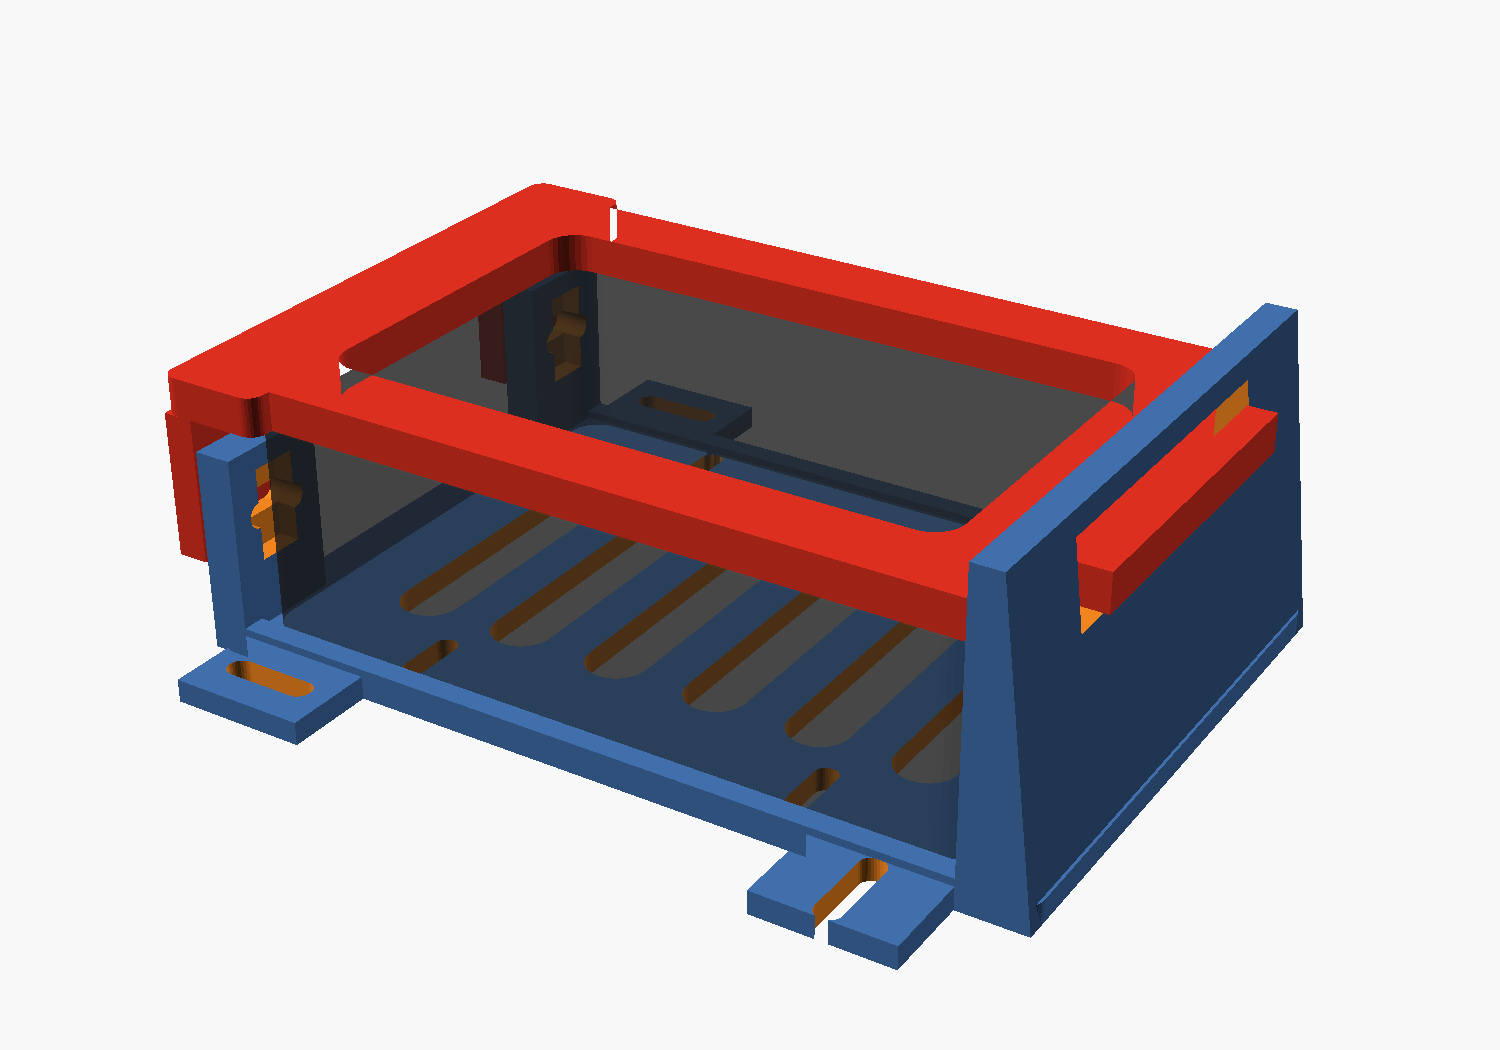
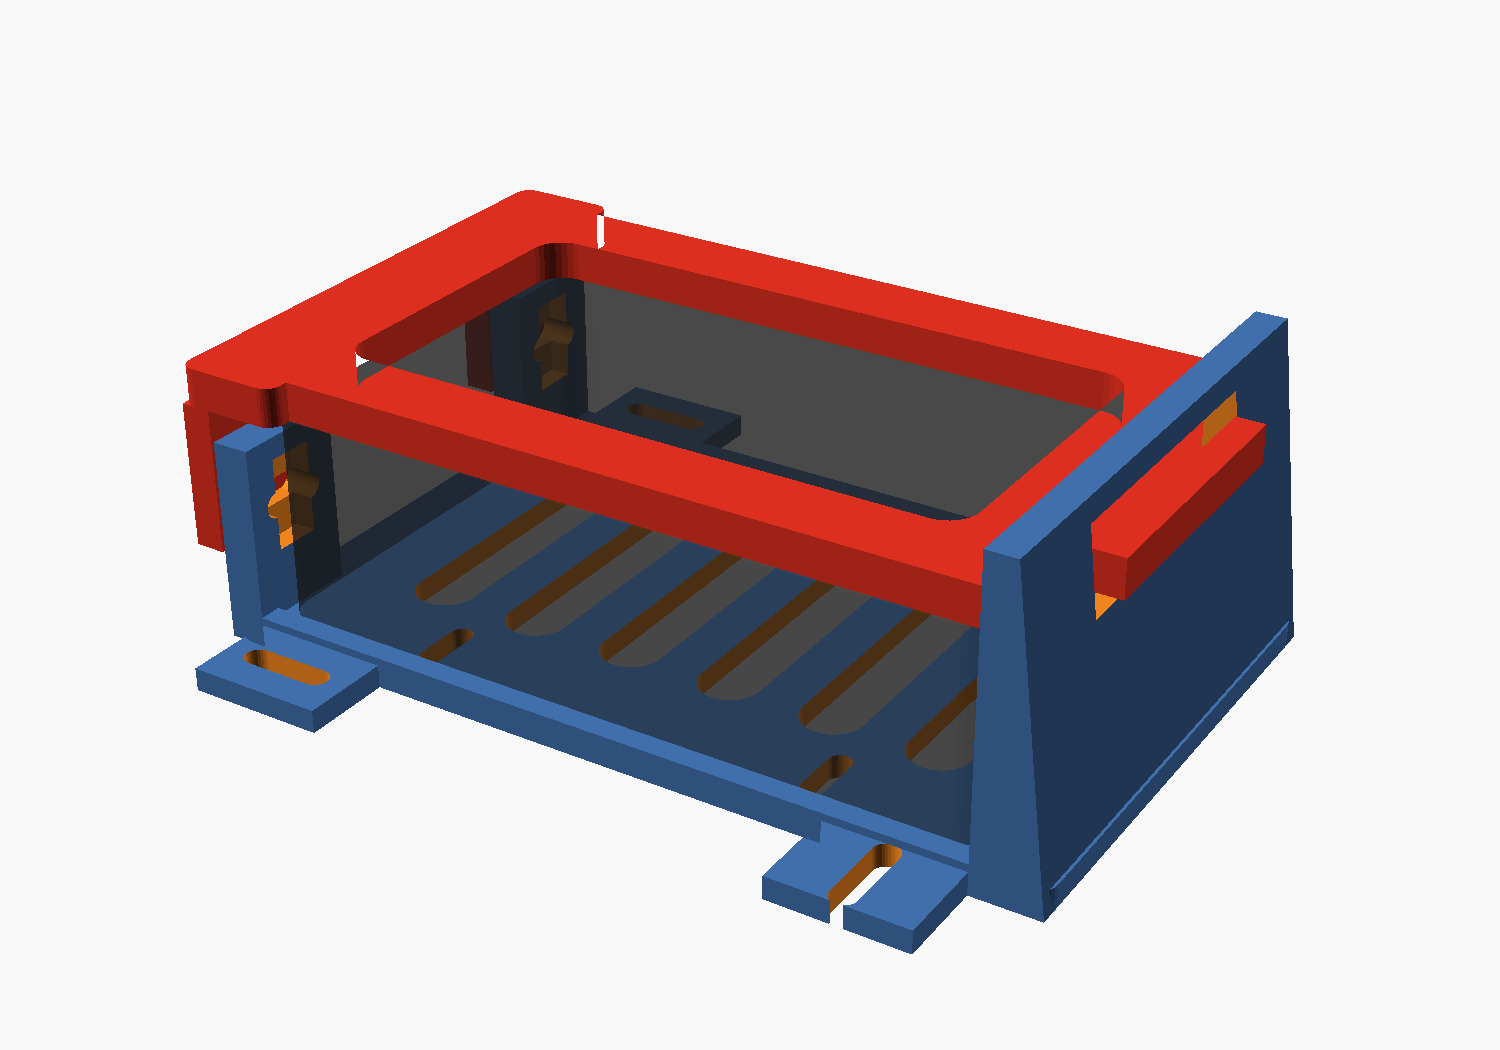
Set the Pi shelf case width to the measured 61.9mm
Also makes the yoke's rear tongue auto-fit the cross member that carries
it instead of being pinned at 44mm — at the narrower width that number
no longer fitted, which the existing assert caught.

Length and height are still estimates and flagged as such in the README.
Side effect of the narrower tray: both parts now fit a single A1 Mini
plate at 116 x 168mm.

Claude-Session: https://claude.ai/code/session_01XT943LhjYUvXmqXvPjpQBY

diff --git a/hardware/custom/pi_shelf/README.md b/hardware/custom/pi_shelf/README.md
@@ -17,26 +17,31 @@ Everything is generated from one parametric source, [`pi_shelf.scad`](pi_shelf.s
 committed STLs are built for a generic slim Pi 5 ABS case; if yours differs by
 more than a couple of millimetres in X or Y, re-render before printing.
 
-| Parameter | Default | What to measure |
-|-----------|---------|-----------------|
-| `case_l` | 96 mm | Long axis — the two faces carrying the ports run along this |
-| `case_w` | 68 mm | Short axis |
-| `case_h` | 30 mm | Total height, rubber feet to lid |
-| `fit` | 0.6 mm | Clearance per side. Bump to 0.8 for an easier drop-in |
+| Parameter | Value | Status | What to measure |
+|-----------|-------|--------|-----------------|
+| `case_l` | 96 mm | **estimate** | Long axis — the two faces carrying the ports run along this |
+| `case_w` | 61.9 mm | measured | Short axis |
+| `case_h` | 30 mm | **estimate** | Total height, rubber feet to lid |
+| `fit` | 0.6 mm | — | Clearance per side. Bump to 0.8 for an easier drop-in |
 
 Measure over the *widest* point: lid overhang, feet, heatsink fins and all.
 Height is the forgiving one — the clamp has ±3 mm of travel built in, so
 anything within `case_h ± 3` works off the same print. Length and width are
 not forgiving; the tray is a pocket.
 
-Two dimensions deserve a second look:
+**`case_l` and `case_h` are still guesses — measure them before you print.**
+Height is the forgiving one; length is not.
+
+Two more dimensions deserve a second look:
 
 - **`curb_h` (4 mm)** — the side curbs. Both long faces of a Pi 5 carry ports
   (USB-A ×4 + Ethernet on one, USB-C + micro-HDMI on the other), so nothing may
   rise in front of them. The curbs stop well below the lowest port cutout on
   the case and locate it sideways; the yoke does the holding down. If your case
   has a cutout that starts lower than 4 mm off its base, drop this number.
-- **`tongue_w` (44 mm)** — the rear tongue. Only matters if you narrow the frame.
+- **`tongue_w_set` (0 = auto)** — the rear tongue auto-fits the rear cross
+  member that carries it, so it tracks `case_w` on its own. Set a number only
+  if you want to override it.
 
 ## How it holds the case
 
@@ -69,11 +74,12 @@ without removing anything.
 | Walls | 3 perimeters |
 | Infill | 30% |
 | Supports | **None needed** — both parts are support-free in the orientations below |
-| Footprint | base 111 × 99 mm, yoke 115 × 75 mm |
+| Footprint | base 111 × 93 mm, yoke 115 × 69 mm |
 
-On the A1 Mini, print `stl/base.stl` and `stl/yoke.stl` as **two separate
-jobs** — side by side they need ~185 mm in Y, which is more bed than it has.
-`stl/plate.stl` has both laid out together for anyone with a bigger printer.
+Both parts fit one A1 Mini plate: `stl/plate.stl` is 116 × 168 mm, about 6 mm
+of margin per side. If you end up with a longer case, that margin goes into the
+X axis first — check it against the bed before slicing, or print `base.stl` and
+`yoke.stl` as two jobs.
 
 PETG is worth it here: the towers and yoke legs are a screw-tensioned joint
 that a warm robot deck will creep under in PLA.
